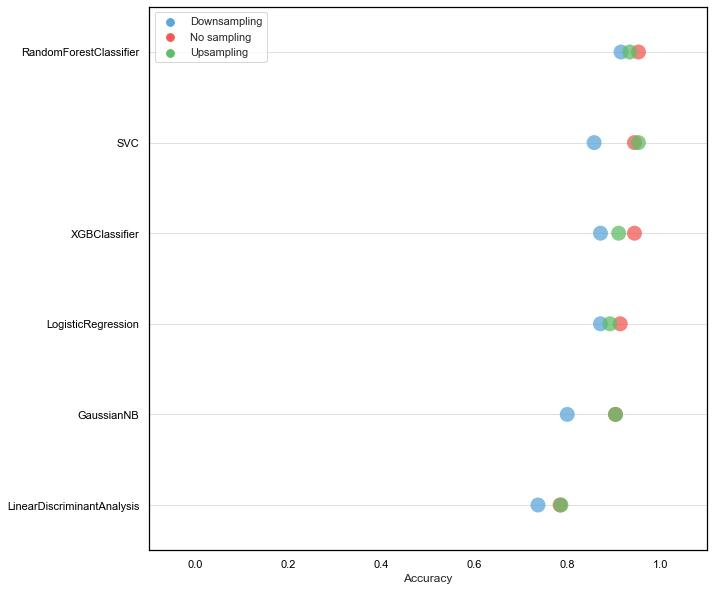
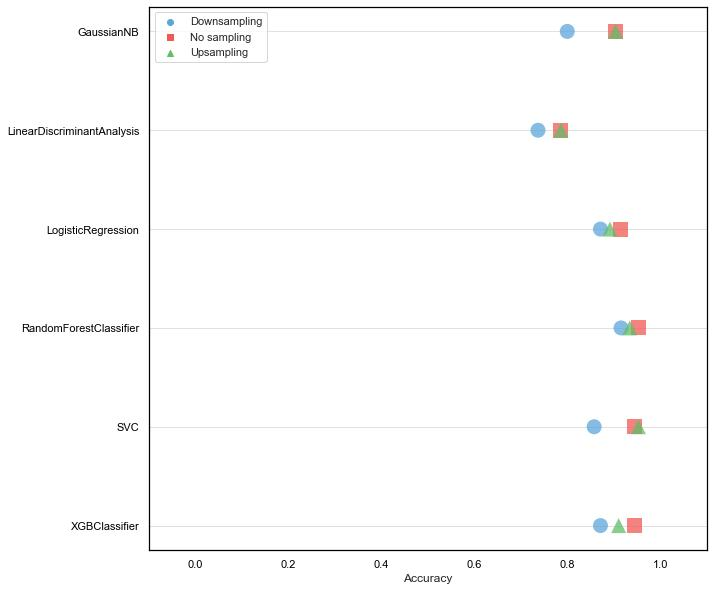
fixed plots

diff --git a/code/model_comparison.py b/code/model_comparison.py
@@ -29,8 +29,8 @@ for idx, val in enumerate(df.columns[2:]):
     df = df.sort_values(by=['Model', 'Sampling',val], ascending=True)
     
     plt.figure(figsize=(10, 10))
-    # ax = sns.scatterplot(data = df, y = 'Model', x = val, hue = 'Sampling', style='Sampling', s=225, linewidth=0, alpha=0.75, markers=('o','s','^'), palette=[medium[1],medium[8],medium[3]])
-    ax = sns.stripplot(y = df['Model'], x = df[val], hue = df['Sampling'], s=15, jitter=False, order=sorted_index_descent, alpha=0.75, palette=[medium[1],medium[8],medium[3]])
+    ax = sns.scatterplot(data = df, y = 'Model', x = val, hue = 'Sampling', style='Sampling', s=225, linewidth=0, alpha=0.75, markers=('o','s','^'), palette=[medium[1],medium[8],medium[3]])
+    #ax = sns.stripplot(y = df['Model'], x = df[val], hue = df['Sampling'], s=15, jitter=False, order=sorted_index_descent, alpha=0.75, palette=[medium[1],medium[8],medium[3]])
     ax.set_ylabel('')
     ax.set_xlabel(val)
     ax.set_xlim([-.1,1.1])
